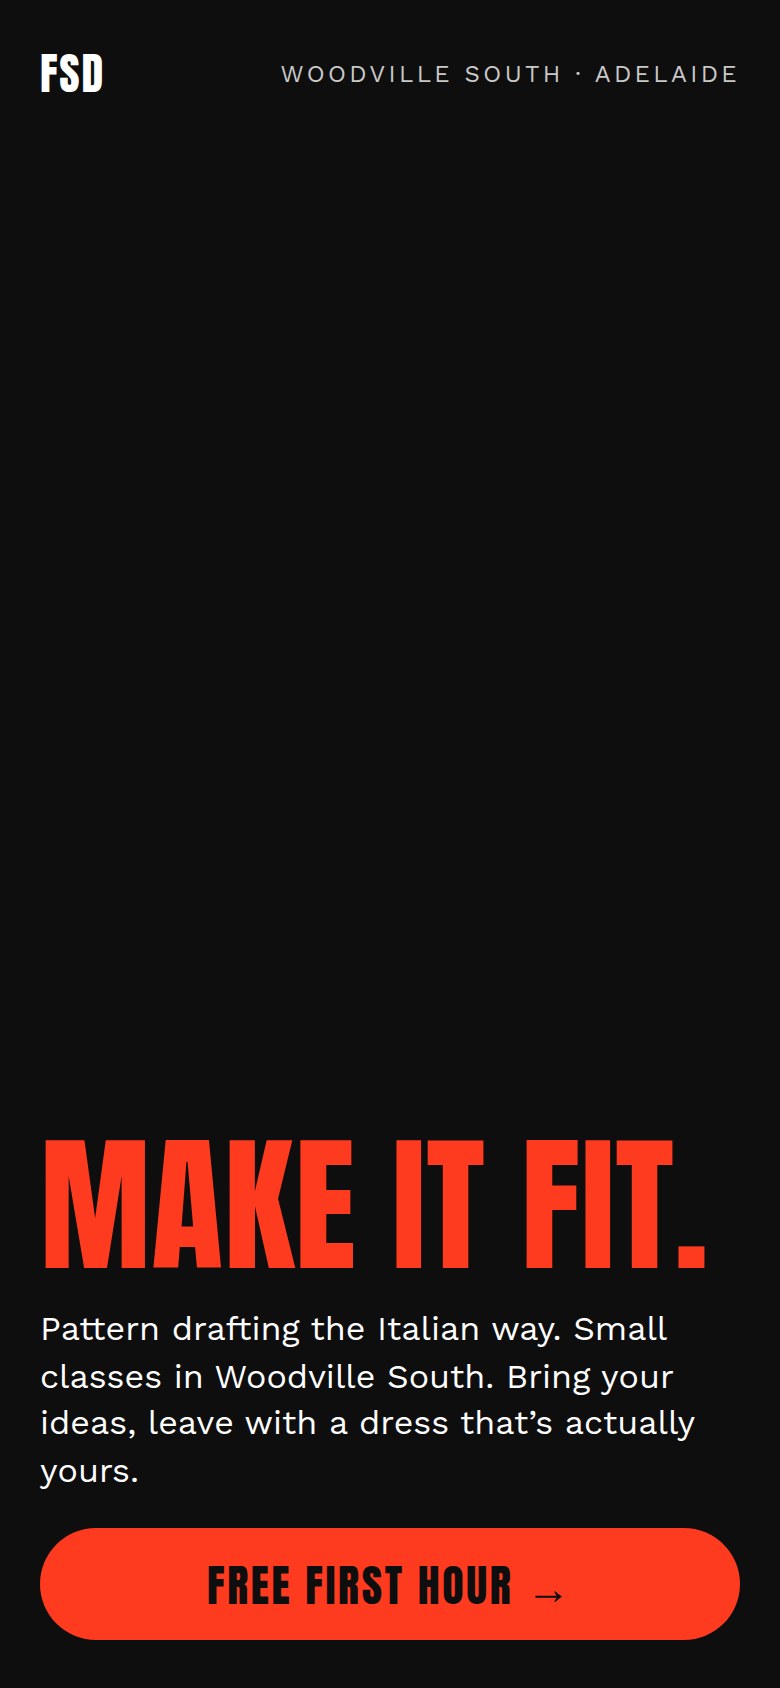
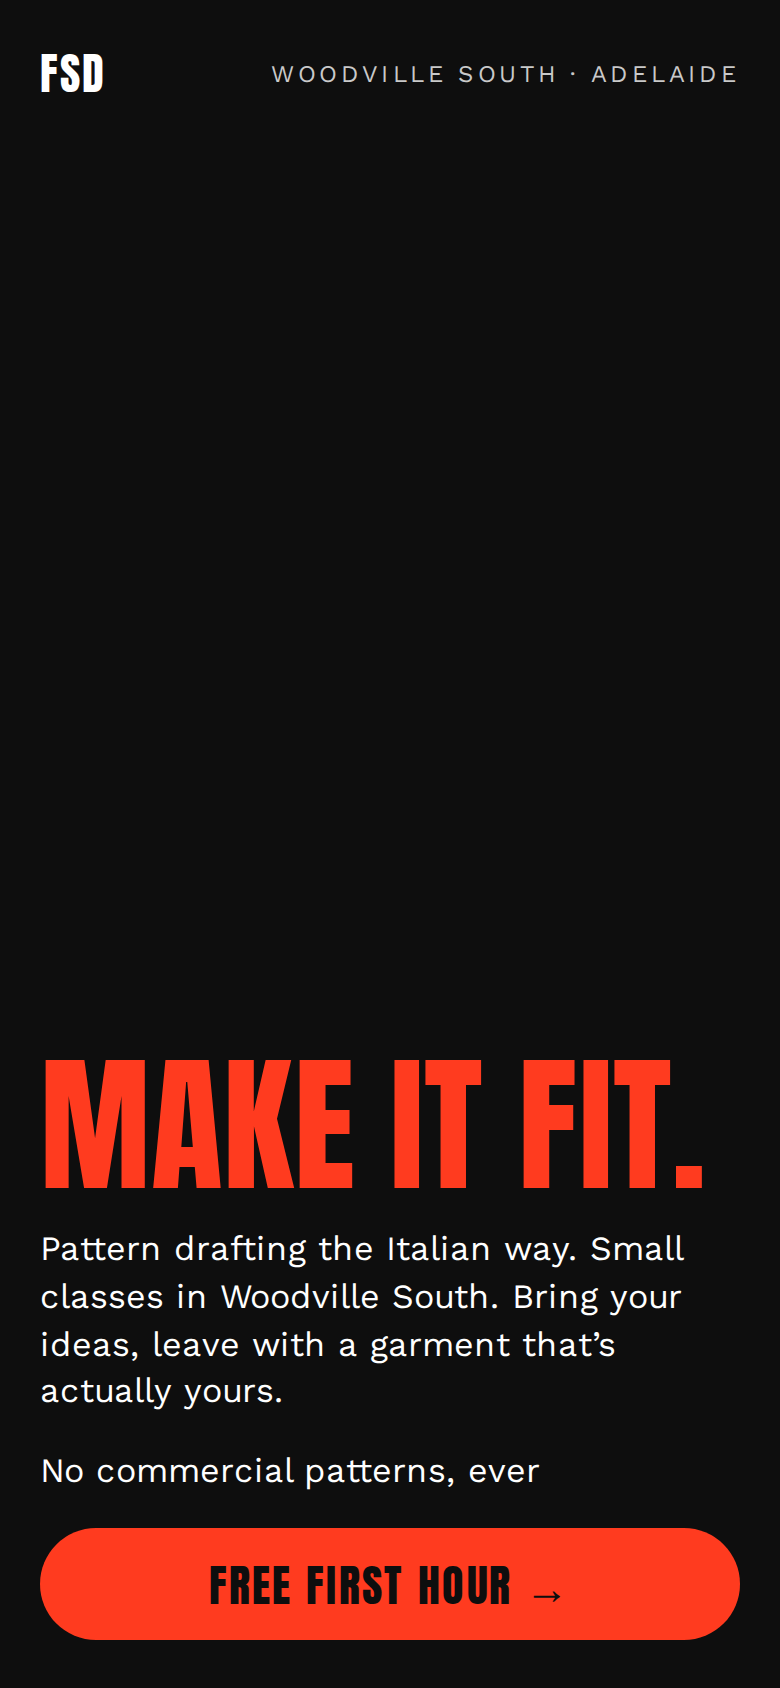
The owner's wording and the desk photo behind the headline
Nine changes he asked for after reading the page.

- No em dash or en dash anywhere in index.html. A search for the two
  characters now returns nothing; it returned seven before. The "Sent"
  message reads "Sent. Anna will call you."
- photos/IMG_1232.HEIC renamed to photos/hero.HEIC, so Anna at her
  cutting table sits behind the headline. The build reports
  hero:hero.jpg and the grid is down to the six students' photos.
- New first-screen lines, including "No commercial patterns, ever".
- New intro line and first bullet in "What you will do".
- Both SITAM paragraphs and both Anna paragraphs replaced.
- The form button says "Send". The repeated phone number under the form
  is gone; it stays in the "Sent" message and in the footer.
- The certificate line now says it is not an Australian qualification.

Two files outside index.html had to follow, or the page would have gone
back: the certificate empty-slot text in tools/build-photos.mjs, which
the build writes into the page, and the "Send it" the form script puts
back on the button after a failed send.

Screenshots at 390 wide of every section that changed.

Claude-Session: https://claude.ai/code/session_014bJzXj8qiSdqV7ZPsNziSW

diff --git a/index.html b/index.html
@@ -3,9 +3,9 @@
 <head>
 <meta charset="utf-8">
 <meta name="viewport" content="width=device-width, initial-scale=1">
-<title>Fashion School of Design — pattern drafting in Woodville South</title>
+<title>Fashion School of Design: pattern drafting in Woodville South</title>
 <meta name="description" content="Anna teaches the SITAM method of pattern drafting in Woodville South, Adelaide. Groups of six. Every pattern drawn from your own measurements. The first hour is free.">
-<meta property="og:title" content="Make it fit. — Fashion School of Design">
+<meta property="og:title" content="Make it fit. Fashion School of Design">
 <meta property="og:description" content="Pattern drafting the Italian way. Small classes in Woodville South, Adelaide. The first hour is free.">
 <meta property="og:type" content="website">
 <link rel="preconnect" href="https://fonts.googleapis.com">
@@ -21,7 +21,7 @@
 <!-- ───────────────────────── 1. The black first screen ───────────────────────── -->
 <header class="hero">
   <!-- hero:start -->
-  <img class="hero__photo" src="img/IMG_1155.jpg" alt="" fetchpriority="high">
+  <img class="hero__photo" src="img/hero.jpg" alt="" fetchpriority="high">
   <div class="hero__veil"></div>
   <!-- hero:end -->
   <div class="hero__inner">
@@ -31,7 +31,8 @@
     </div>
     <div class="hero__say">
       <h1 class="hero__head">Make it fit.</h1>
-      <p class="hero__lede">Pattern drafting the Italian way. Small classes in Woodville South. Bring your ideas, leave with a dress that&rsquo;s actually yours.</p>
+      <p class="hero__lede">Pattern drafting the Italian way. Small classes in Woodville South. Bring your ideas, leave with a garment that&rsquo;s actually yours.</p>
+      <p class="hero__lede">No commercial patterns, ever</p>
       <a class="btn btn--red" href="#enquire">Free first hour &rarr;</a>
     </div>
   </div>
@@ -74,16 +75,16 @@
 <!-- ───────────────────────── 3. What SITAM is ───────────────────────── -->
 <section class="prose">
   <h2 class="big">What is SITAM?</h2>
-  <p>It began in Padova in 1946. The Padovani family had been tailors for generations, and they worked out a simple curved rule that draws a pattern straight from a handful of your own measurements.</p>
-  <p>It is still taught the same way, out of the same numbered books. It is quick, it is simple, and the clothes fit — because they were drawn for you and not for a size on a chart. Anna learned it at sixteen and has taught it for forty years.</p>
+  <p>SITAM was born in Padova, in the north of Italy, in 1946. The Padovani family had been tailors for generations, and they wanted a way for anyone, not just a trained cutter, to make clothes that truly fit. So they designed a beautifully simple tool: a curved ruler where each curve is a part of you. The shoulder, the armhole, the sleeve. You take a handful of your own measurements, follow the curves, and a pattern appears on the paper that was drawn for your body and nobody else&rsquo;s.</p>
+  <p>Eighty years on, it&rsquo;s still taught the same way, from the same numbered books, and it still feels a little like magic the first time it works. Anna learned it at sixteen. She has been teaching it for forty years, and she has never found anything that fits better.</p>
 </section>
 
 <!-- ───────────────────────── 4. What you will do ───────────────────────── -->
 <section class="prose">
   <h2 class="big">What you will do.</h2>
-  <p>Five sessions, three hours each. Roughly, one session at a time:</p>
+  <p>During your lessons at Fashion School of Design, you&rsquo;ll learn:</p>
   <ol class="steps">
-    <li><span class="steps__n">1</span><span>Your own measurements, taken properly, and your first block drawn with the SITAM rule.</span></li>
+    <li><span class="steps__n">1</span><span>How to take your own measurements, properly, and your first block drawn with the SITAM rule.</span></li>
     <li><span class="steps__n">2</span><span>The skirt: drafted from your block, cut, and fitted on you.</span></li>
     <li><span class="steps__n">3</span><span>The bodice: darts, balance, and the shape you actually are.</span></li>
     <li><span class="steps__n">4</span><span>The sleeve, and then a design of your own on top of it.</span></li>
@@ -97,7 +98,7 @@
   <h2 class="big">Inside the studio.</h2>
   <div class="slot slot--video">
     <span class="slot__play" aria-hidden="true"></span>
-    <span class="slot__label">Film of the studio &mdash; coming</span>
+    <span class="slot__label">Film of the studio, coming</span>
   </div>
 </section>
 
@@ -114,8 +115,8 @@
   <!-- anna:start -->
   <div class="slot slot--portrait"><span class="slot__label">Photo: Anna, in the studio</span></div>
   <!-- anna:end -->
-  <p>She has been making clothes since she was four years old. Self-taught at first, then couture, and then SITAM at sixteen &mdash; after which she never used a bought pattern again.</p>
-  <p>Wedding dresses, menswear, children&rsquo;s clothes, high fashion. Forty years of teaching it. Her former students run their own labels, and some of them work at Paolo Sebastian.</p>
+  <p>Anna has been making clothes since she was four years old, and she has never really stopped. She taught herself first, then worked in couture, and at sixteen she found the SITAM method. From that day on she has never used a bought pattern again.</p>
+  <p>Over the years she has made wedding dresses, suits, children&rsquo;s clothes, detailed costumes and high fashion, and for the last forty she has been teaching other people to do the same, one small class at a time. Some of her former students now run their own labels; some work at Paolo Sebastian. Most just make clothes they love wearing. She&rsquo;d be happy to help you do any of them.</p>
 </section>
 
 <!-- ───────────────────────── 8. What her students make ───────────────────────── -->
@@ -149,10 +150,10 @@
     <dt>Cost</dt><dd>$220 for the course. Private lessons are two hours for $150.</dd>
     <dt>Machines</dt><dd>Industrial and domestic machines and overlockers are in the studio. Bring your own if you prefer.</dd>
     <dt>Fabric</dt><dd>There is fabric here to buy, or Anna will tell you where to get what you want.</dd>
-    <dt>At the end</dt><dd>Finish book one and SITAM in Italy issues a certificate and posts it to you. Anna is accredited by SITAM to assess it. It is a certificate from SITAM in Italy, and that is all it is.</dd>
+    <dt>At the end</dt><dd>Finish book one and SITAM in Italy issues a certificate and posts it to you. Anna is accredited by SITAM to assess it. It is a certificate from SITAM in Italy, not an Australian qualification, and not pretending to be.</dd>
   </dl>
   <!-- certificate:start -->
-  <div class="slot slot--cert"><span class="slot__label">Photo of the SITAM certificate &mdash; coming</span></div>
+  <div class="slot slot--cert"><span class="slot__label">Photo of the SITAM certificate, coming</span></div>
   <!-- certificate:end -->
 </section>
 
@@ -191,15 +192,14 @@
     </fieldset>
 
     <p class="err" id="form-error" hidden></p>
-    <button class="btn btn--black" type="submit">Send it</button>
+    <button class="btn btn--black" type="submit">Send</button>
   </form>
 
   <div class="sent" id="sent" hidden>
-    <p class="sent__head">Sent &mdash; Anna will call you.</p>
+    <p class="sent__head">Sent. Anna will call you.</p>
     <p class="sent__body">If you would rather not wait, ring her on <a href="tel:+61433353612">0433 353 612</a>.</p>
   </div>
 
-  <p class="ring">Or just ring Anna: <a href="tel:+61433353612">0433 353 612</a></p>
 </section>
 
 </main>

diff --git a/script.js b/script.js
@@ -12,7 +12,7 @@
     err.textContent = message;
     err.hidden = false;
     button.disabled = false;
-    button.textContent = 'Send it';
+    button.textContent = 'Send';
   }
 
   form.addEventListener('submit', function (event) {

diff --git a/docs/screenshots/README.md b/docs/screenshots/README.md
@@ -4,13 +4,29 @@ Every picture here is a real render of the page at 390 pixels wide, the width of
 
 ## With photographs in `photos/`
 
-The first screen, with one of the photographs behind the headline:
+The first screen, with Anna at her cutting table behind the headline:
 
-![The first screen with a photograph behind the headline](6-with-photos-first-screen.png)
+![The first screen with the photograph of Anna at her cutting table behind the headline](6-with-photos-first-screen.png)
 
-"Made here" — the grid built from the folder:
+What is SITAM?
+
+![The section explaining what SITAM is](8-what-is-sitam.png)
+
+What you will do:
+
+![The five numbered sessions](9-what-you-will-do.png)
+
+Anna:
+
+![The section about Anna, with the empty slot for her photograph](10-anna.png)
+
+"Made here", the grid built from the folder:
 
 ![The photo grid built from the photos folder](7-with-photos-grid.png)
+
+The facts, and the slot for the certificate photograph:
+
+![The facts of the course and the empty certificate slot](11-the-facts.png)
 
 ## With `photos/` empty
 
@@ -32,4 +48,4 @@ The photo grid with nothing in the folder:
 
 And what someone sees after they send it:
 
-![Sent — Anna will call you](5-sent.png)
+![Sent. Anna will call you.](5-sent.png)
